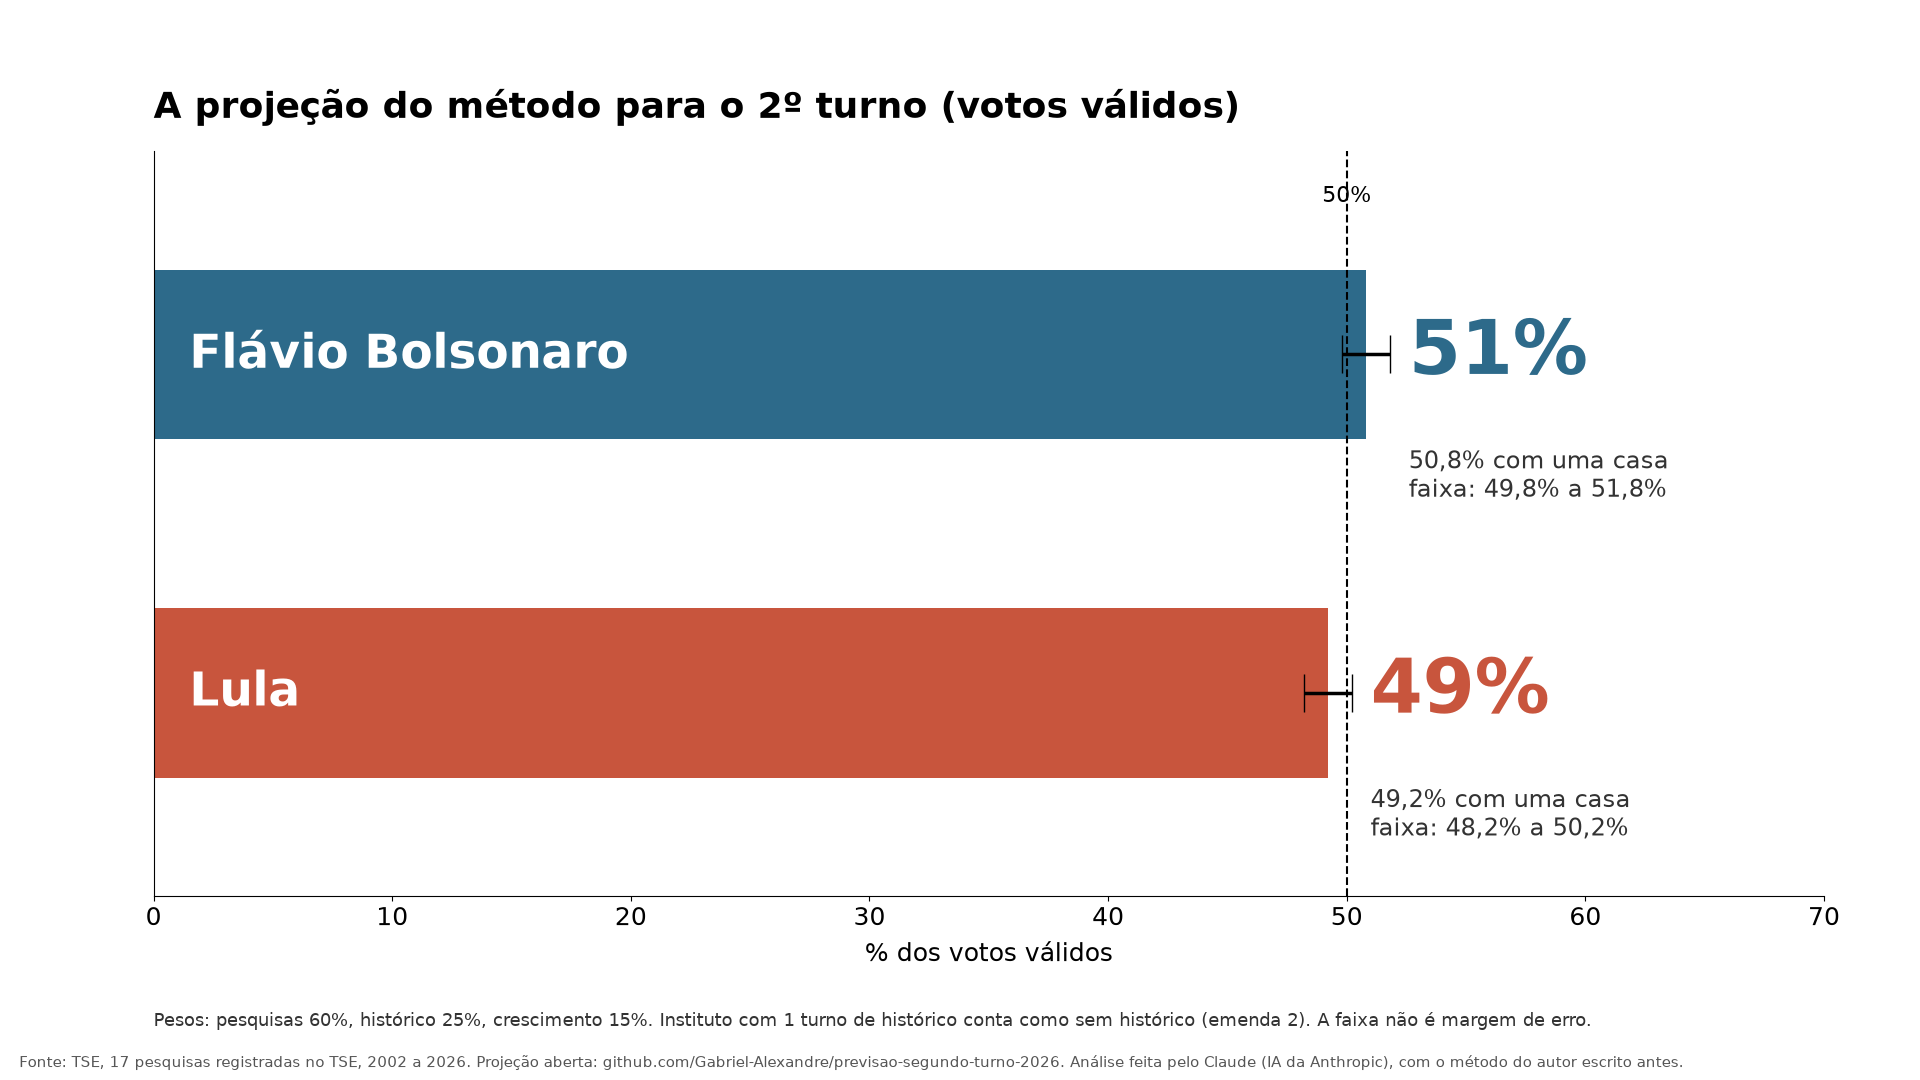
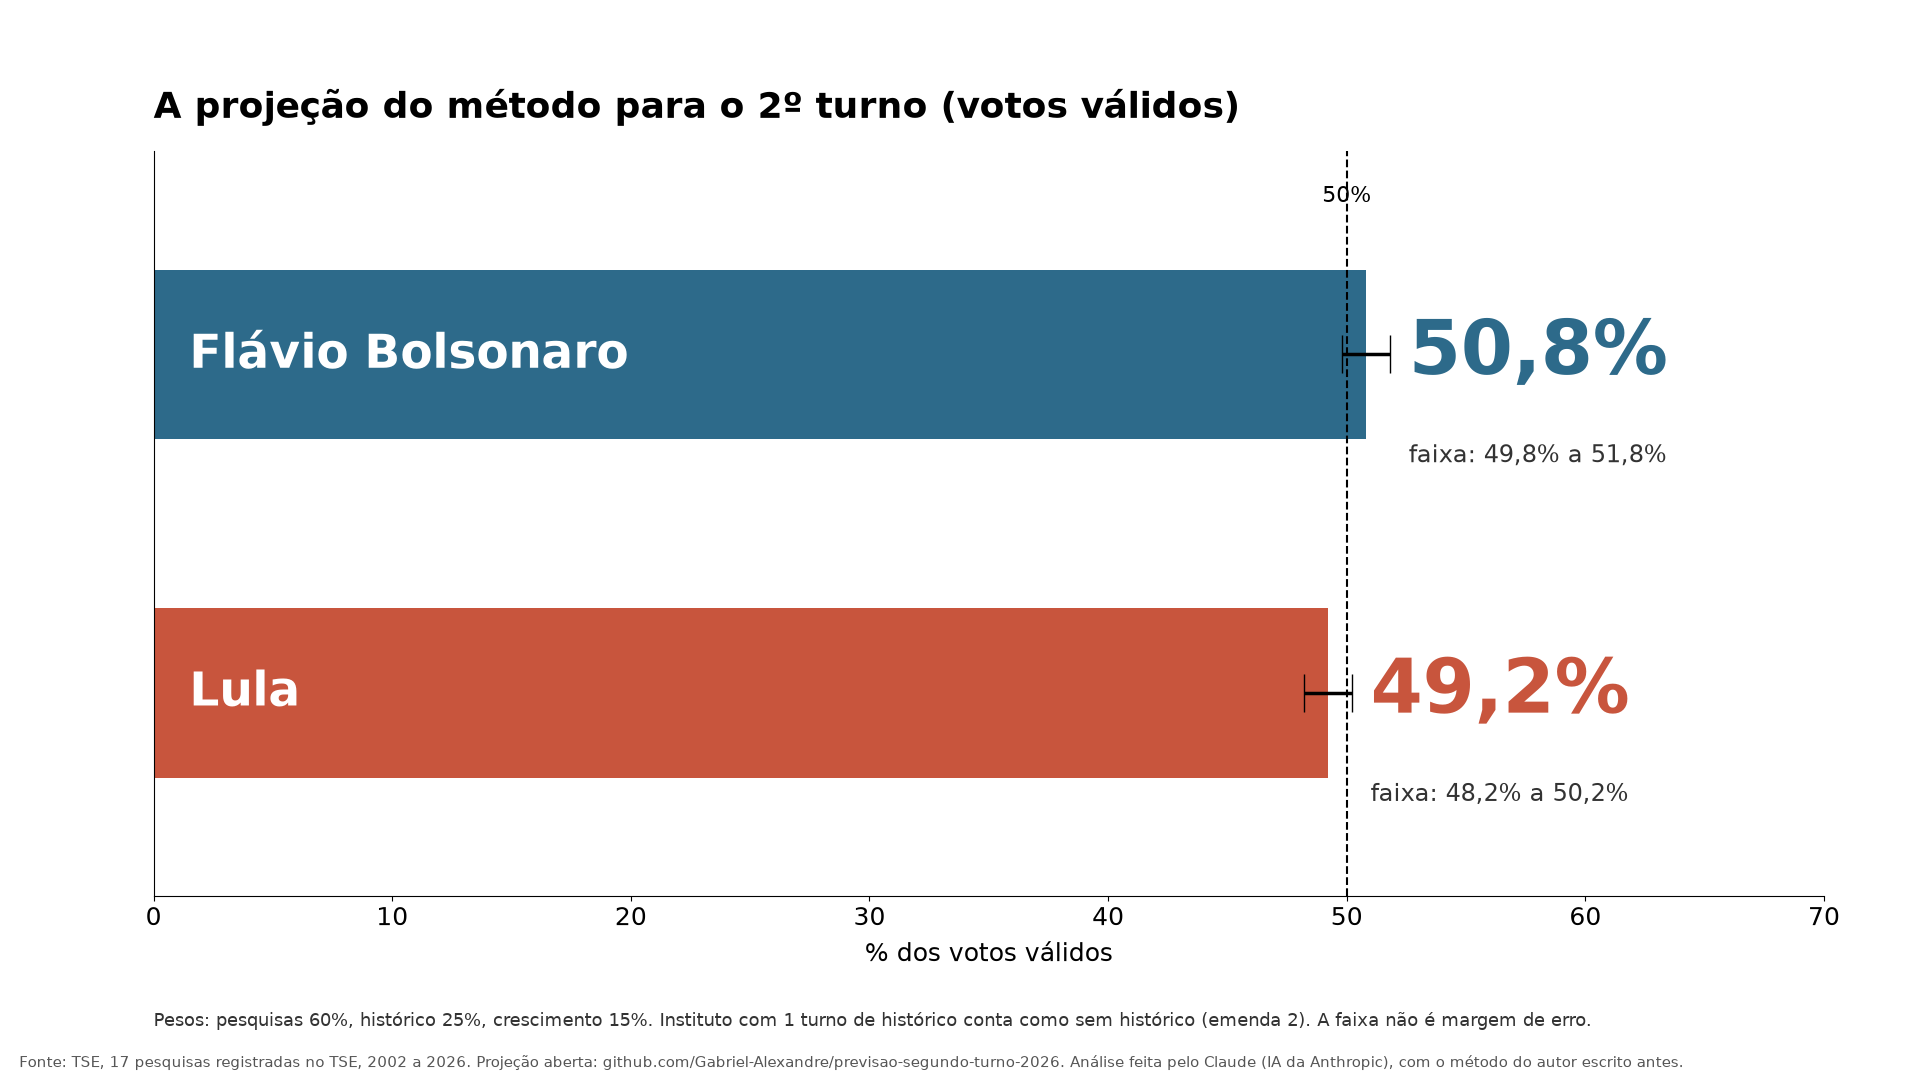
Emenda 3 (decisao do autor, so apresentacao): o numero apresentado e o de uma casa, Flavio 50,8 x Lula 49,2; graficos g01 e g12 e relatorio atualizados

diff --git a/ferramentas/gerar-relatorio.py b/ferramentas/gerar-relatorio.py
@@ -113,11 +113,11 @@ RELATORIO = f"""# Relatório: projeção do 2º turno de 2026
 
 | | Flávio Bolsonaro | Lula |
 |---|---|---|
-| **Projeção, em número inteiro** | **{fi}%** | **{li}%** |
-| Com uma casa | {b(f)}% | {b(l)}% |
+| **Projeção (votos válidos)** | **{b(f)}%** | **{b(l)}%** |
+| Em número inteiro | {fi}% | {li}% |
 | Faixa de 1 ponto | {b(f-1)}% a {b(f+1)}% | {b(l-1)}% a {b(l+1)}% |
 
-Pela **emenda 2** (decisão do autor, depois de ver o número), instituto com um turno só de histórico conta como sem histórico; antes dela, o final era {b(v_pre, 2)}%. Nenhuma redução do peso da Vox Brasil, sozinha, chegaria a 51,0 com uma casa; em número inteiro, o resultado é {fi} a {li}.
+Pela **emenda 2** (decisão do autor, depois de ver o número), instituto com um turno só de histórico conta como sem histórico; antes dela, o final era {b(v_pre, 2)}%. Nenhuma redução do peso da Vox Brasil, sozinha, chegaria a 51,0 com uma casa. Pela emenda 3 (decisão dele), o número apresentado é o de uma casa, {b(f)} a {b(l)}.
 
 | Estimativa | Parte de Flávio | Peso | Contribuição |
 |---|---|---|---|
@@ -208,7 +208,7 @@ Análise feita pelo Claude, modelo de IA da Anthropic, com o método, os pesos e
 
 RESUMO = f"""# Resumo simples
 
-**A projeção do método para o 2º turno de 25/out/2026: Flávio Bolsonaro {fi}% e Lula {li}% dos votos válidos, com 1 ponto para cada lado** ({b(f)}% e {b(l)}% com uma casa).
+**A projeção do método para o 2º turno de 25/out/2026: Flávio Bolsonaro {b(f)}% e Lula {b(l)}% dos votos válidos, com 1 ponto para cada lado.**
 
 | O que entrou | Peso | O que deu para Flávio | Por quê |
 |---|---|---|---|
@@ -229,7 +229,7 @@ Não é pesquisa, não recomenda voto e não diz quem deveria ganhar. Detalhes: 
 
 LEITURA = f"""# Leitura da IA
 
-Pelos pesos que o autor definiu antes e a emenda 2 (decisão dele), a projeção é **Flávio {fi}% e Lula {li}%** ({b(f)}% e {b(l)}% com uma casa). Esta é a leitura do Claude sobre o que sustenta o número e onde ele é frágil, sem opinião sobre os candidatos.
+Pelos pesos que o autor definiu antes e a emenda 2 (decisão dele), a projeção é **Flávio {b(f)}% e Lula {b(l)}%**. Esta é a leitura do Claude sobre o que sustenta o número e onde ele é frágil, sem opinião sobre os candidatos.
 
 **O que sustenta.** O número não depende de uma escolha só. As pesquisas ({b(E['P'], 2)}%), o histórico ({b(E['H'], 2)}%) e a aritmética do 1º turno ({b(E['R'], 2)}%) chegaram ao mesmo lado por caminhos que não dependem um do outro, e {S['variantes_com_flavio_acima_de_50']} das {S['variantes']} variações também. O parâmetro de 50% e 50% não decide nada: de 40% a 60% para Flávio, o final vai de {b(var['outros 40% para Flávio e 60% para Lula'], 2)}% a {b(var['outros 60% para Flávio e 40% para Lula'], 2)}%.
 
@@ -237,7 +237,7 @@ Pelos pesos que o autor definiu antes e a emenda 2 (decisão dele), a projeção
 
 **Onde o número é frágil.** A esta distância da eleição, as pesquisas erraram {b(ADV['erros_P_horizonte']['2014'], 1)} e {b(ADV['erros_P_horizonte']['2018'], 1)} pontos a favor do candidato contra o PT em 2014 e 2018, e {b(abs(ADV['erros_P_horizonte']['2022']), 1)} ponto a favor do PT em 2022. A diferença projetada ({b(f - l, 1)} ponto) é menor que o erro que o próprio método teve no passado ({b(T['erro_absoluto_medio_final'], 1)} ponto, em média). O número é a melhor conta que os dados permitem; a chance de o resultado sair do outro lado existe e não é pequena.
 
-**Veredito.** Pelas regras do pré-registro e da emenda 2, **o método crava Flávio {fi}% e Lula {li}%** ({b(f)}% e {b(l)}% com uma casa). Isso é a consequência aritmética dos dados e dos pesos, não preferência, e não diz quem deveria ganhar.
+**Veredito.** Pelas regras do pré-registro e da emenda 2, **o método crava Flávio {b(f)}% e Lula {b(l)}%**. Isso é a consequência aritmética dos dados e dos pesos, não preferência, e não diz quem deveria ganhar.
 """
 
 ADVERS = f"""# Revisão adversarial

diff --git a/ferramentas/graficos.py b/ferramentas/graficos.py
@@ -52,8 +52,8 @@ def g01_resultado(r: dict) -> None:
         ax.barh(y, v, height=0.5, color=cor)
         ax.errorbar(v, y, xerr=1, color="black", capsize=14, lw=2.5)
         ax.text(1.5, y, nome, va="center", color="white", fontsize=34, fontweight="bold")
-        ax.text(v + 1.8, y, f"{vi}%", va="center", fontsize=54, fontweight="bold", color=cor)
-        ax.text(v + 1.8, y - 0.36, f"{br(v)}% com uma casa\nfaixa: {br(v - 1)}% a {br(v + 1)}%", va="center", fontsize=17, color="#333333")
+        ax.text(v + 1.8, y, f"{br(v)}%", va="center", fontsize=54, fontweight="bold", color=cor)
+        ax.text(v + 1.8, y - 0.3, f"faixa: {br(v - 1)}% a {br(v + 1)}%", va="center", fontsize=17, color="#333333")
     ax.axvline(50, color="black", lw=1.5, ls="--")
     ax.text(50, 1.45, "50%", ha="center", fontsize=16)
     ax.set_xlim(0, 70)
@@ -243,8 +243,7 @@ def g12_placar(r: dict) -> None:
         ax.text(0.22, y, b, fontsize=20, color="#555555", transform=ax.transAxes)
         ax.text(0.38, y, c, fontsize=28, fontweight="bold", color=COR["flavio"] if c.startswith("Flávio") else "black", transform=ax.transAxes)
         ax.text(0.38, y - 0.06, d, fontsize=15, color="#333333", transform=ax.transAxes)
-    ax.text(0.02, 0.08, f"Número final:  Flávio {r['final']['flavio_inteiro']}%  ·  Lula {r['final']['lula_inteiro']}%", fontsize=36, fontweight="bold", transform=ax.transAxes)
-    ax.text(0.70, 0.085, f"({br(r['final']['flavio'])}% e {br(r['final']['lula'])}% com uma casa)", fontsize=16, color="#555555", transform=ax.transAxes)
+    ax.text(0.02, 0.08, f"Número final:  Flávio {br(r['final']['flavio'])}%  ·  Lula {br(r['final']['lula'])}%", fontsize=36, fontweight="bold", transform=ax.transAxes)
     salvar(fig, "g12_placar_por_parte.png")
 
 

diff --git a/ESTADO.md b/ESTADO.md
@@ -4,13 +4,13 @@
 
 ## Em uma frase
 
-Executado de ponta a ponta em 21/out/2026: pré-registro em commit antes de qualquer conta (`b30ae7f`), uma emenda antes do cálculo e outra depois (decisão do autor), coleta do TSE de 2002 a 2026 com hash, 27 pesquisas do 2º turno casadas com o registro no TSE (26 conferidas numa segunda fonte), as três estimativas, teste do passado, 19 variantes, recontagem independente (14 de 14), revisão adversarial, relatório e 10 gráficos. **Projeção: Flávio 51% e Lula 49% dos válidos (50,8% e 49,2% com uma casa), com 1 ponto para cada lado**, depois da emenda 2 (decisão do autor: instituto com um turno só de histórico conta como sem histórico; antes dela, 50,5% e 49,5%).
+Executado de ponta a ponta em 21/out/2026: pré-registro em commit antes de qualquer conta (`b30ae7f`), uma emenda antes do cálculo e duas depois (decisões do autor: o peso da Vox Brasil e o número com uma casa), coleta do TSE de 2002 a 2026 com hash, 27 pesquisas do 2º turno casadas com o registro no TSE (26 conferidas numa segunda fonte), as três estimativas, teste do passado, 19 variantes, recontagem independente (14 de 14), revisão adversarial, relatório e 10 gráficos. **Projeção: Flávio 50,8% e Lula 49,2% dos válidos, com 1 ponto para cada lado**, depois da emenda 2 (decisão do autor: instituto com um turno só de histórico conta como sem histórico; antes dela, 50,5% e 49,5%).
 
 ## O que está pronto
 
 | Peça | Estado |
 |---|---|
-| Pré-registro e emendas 1 e 2 | ✅ `docs/PRE_REGISTRO.md` |
+| Pré-registro e emendas 1 a 3 | ✅ `docs/PRE_REGISTRO.md` |
 | Coleta com sha256 | ✅ `dados/MANIFESTO.json` |
 | Pesquisas de 2026: registro no TSE e segunda fonte | ✅ `dados/derivados/pesquisas_2t_2026_*.csv` |
 | Análise (P, H, R, regras por UF, abstenção, de onde viriam os votos, teste do passado, sensibilidade) | ✅ `resultados/RESUMO.json` |

diff --git a/docs/LEITURA_DA_IA.md b/docs/LEITURA_DA_IA.md
@@ -1,6 +1,6 @@
 # Leitura da IA
 
-Pelos pesos que o autor definiu antes e a emenda 2 (decisão dele), a projeção é **Flávio 51% e Lula 49%** (50,8% e 49,2% com uma casa). Esta é a leitura do Claude sobre o que sustenta o número e onde ele é frágil, sem opinião sobre os candidatos.
+Pelos pesos que o autor definiu antes e a emenda 2 (decisão dele), a projeção é **Flávio 50,8% e Lula 49,2%**. Esta é a leitura do Claude sobre o que sustenta o número e onde ele é frágil, sem opinião sobre os candidatos.
 
 **O que sustenta.** O número não depende de uma escolha só. As pesquisas (50,97%), o histórico (50,57%) e a aritmética do 1º turno (50,84%) chegaram ao mesmo lado por caminhos que não dependem um do outro, e 18 das 19 variações também. O parâmetro de 50% e 50% não decide nada: de 40% a 60% para Flávio, o final vai de 50,73% a 50,97%.
 
@@ -8,4 +8,4 @@ Pelos pesos que o autor definiu antes e a emenda 2 (decisão dele), a projeção
 
 **Onde o número é frágil.** A esta distância da eleição, as pesquisas erraram 3,2 e 3,2 pontos a favor do candidato contra o PT em 2014 e 2018, e 1,1 ponto a favor do PT em 2022. A diferença projetada (1,6 ponto) é menor que o erro que o próprio método teve no passado (1,8 ponto, em média). O número é a melhor conta que os dados permitem; a chance de o resultado sair do outro lado existe e não é pequena.
 
-**Veredito.** Pelas regras do pré-registro e da emenda 2, **o método crava Flávio 51% e Lula 49%** (50,8% e 49,2% com uma casa). Isso é a consequência aritmética dos dados e dos pesos, não preferência, e não diz quem deveria ganhar.
+**Veredito.** Pelas regras do pré-registro e da emenda 2, **o método crava Flávio 50,8% e Lula 49,2%**. Isso é a consequência aritmética dos dados e dos pesos, não preferência, e não diz quem deveria ganhar.

diff --git a/docs/PRE_REGISTRO.md b/docs/PRE_REGISTRO.md
@@ -102,3 +102,5 @@ Não ouve eleitor (não é pesquisa), não mede intenção de ninguém, não mod
 - **A regra adotada:** a nota de acerto só conta com **pelo menos 2 turnos medidos**. Com um turno só, o instituto recebe a nota de quem não tem histórico (percentil 75 dos que têm), como o §4.7 já fazia com os desconhecidos. Motivo: um acerto isolado não separa competência de sorte. A regra vale igual para todos: atinge a Vox Brasil, a Palver, a Gerp e a Indexa (um turno medido cada). O teto de 25% e a correção de viés seguem como estavam.
 - **A conta, dita antes de aplicar:** nenhuma redução do peso da Vox Brasil chega a 51,0 com uma casa. Com esta regra, o final vai de 50,52 para **50,85 (50,8)**; mesmo tirando a Vox da conta, ficaria em 50,80. Para dar 51,0, as pesquisas precisariam somar pelo menos 51,14, acima da média simples delas (51,04), o que exigiria outra mudança além da Vox. **Em número inteiro, o resultado é 51 para Flávio e 49 para Lula**, e é assim que a saída passa a ser apresentada também (pedido do autor de cravar *"uma porcentagem para cada um"*), com o número de uma casa ao lado.
 - O resultado antes desta emenda fica publicado na sensibilidade (*"como no pré-registro, antes da emenda 2"*).
+
+**Emenda 3 (21/out/2026, depois de ver o número; decisão do autor, só de apresentação):** o número apresentado volta a ser o de **uma casa decimal**, como no §2: **Flávio 50,8% e Lula 49,2%**, com 1 ponto para cada lado. Palavras dele: *"eu prefiro falar o resultado exato. De 50,8 e 49,2. Isso baseado em como tudo foi feito"*. O inteiro (51 e 49) fica como informação. Nenhuma conta mudou.

diff --git a/RELATORIO.md b/RELATORIO.md
@@ -13,11 +13,11 @@
 
 | | Flávio Bolsonaro | Lula |
 |---|---|---|
-| **Projeção, em número inteiro** | **51%** | **49%** |
-| Com uma casa | 50,8% | 49,2% |
+| **Projeção (votos válidos)** | **50,8%** | **49,2%** |
+| Em número inteiro | 51% | 49% |
 | Faixa de 1 ponto | 49,8% a 51,8% | 48,2% a 50,2% |
 
-Pela **emenda 2** (decisão do autor, depois de ver o número), instituto com um turno só de histórico conta como sem histórico; antes dela, o final era 50,52%. Nenhuma redução do peso da Vox Brasil, sozinha, chegaria a 51,0 com uma casa; em número inteiro, o resultado é 51 a 49.
+Pela **emenda 2** (decisão do autor, depois de ver o número), instituto com um turno só de histórico conta como sem histórico; antes dela, o final era 50,52%. Nenhuma redução do peso da Vox Brasil, sozinha, chegaria a 51,0 com uma casa. Pela emenda 3 (decisão dele), o número apresentado é o de uma casa, 50,8 a 49,2.
 
 | Estimativa | Parte de Flávio | Peso | Contribuição |
 |---|---|---|---|

diff --git a/README.md b/README.md
@@ -6,8 +6,7 @@ Projeto aberto que crava uma porcentagem para cada candidato no 2º turno de 25/
 
 | | Flávio Bolsonaro | Lula |
 |---|---|---|
-| **Projeção (votos válidos)** | **51%** | **49%** |
-| Com uma casa | 50,8% | 49,2% |
+| **Projeção (votos válidos)** | **50,8%** | **49,2%** |
 | Faixa de 1 ponto (escolha do autor, não margem de erro) | 49,8% a 51,8% | 48,2% a 50,2% |
 
 Pela emenda 2 (decisão do autor depois de ver o primeiro número, 50,5 a 49,5), instituto com um turno só de histórico conta como sem histórico; a Vox Brasil, única pesquisa com Lula na frente, deixou de ter 25% do peso.

diff --git a/RESUMO_SIMPLES.md b/RESUMO_SIMPLES.md
@@ -1,6 +1,6 @@
 # Resumo simples
 
-**A projeção do método para o 2º turno de 25/out/2026: Flávio Bolsonaro 51% e Lula 49% dos votos válidos, com 1 ponto para cada lado** (50,8% e 49,2% com uma casa).
+**A projeção do método para o 2º turno de 25/out/2026: Flávio Bolsonaro 50,8% e Lula 49,2% dos votos válidos, com 1 ponto para cada lado.**
 
 | O que entrou | Peso | O que deu para Flávio | Por quê |
 |---|---|---|---|
